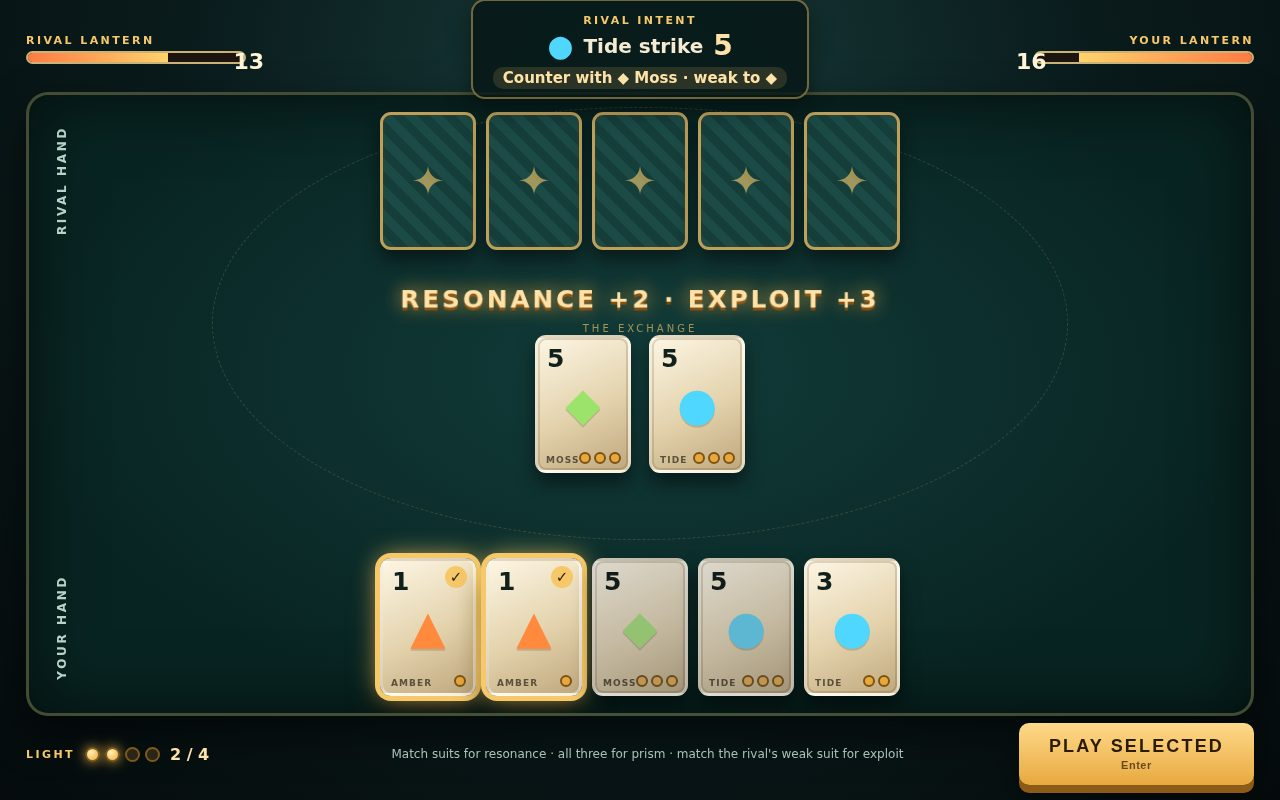
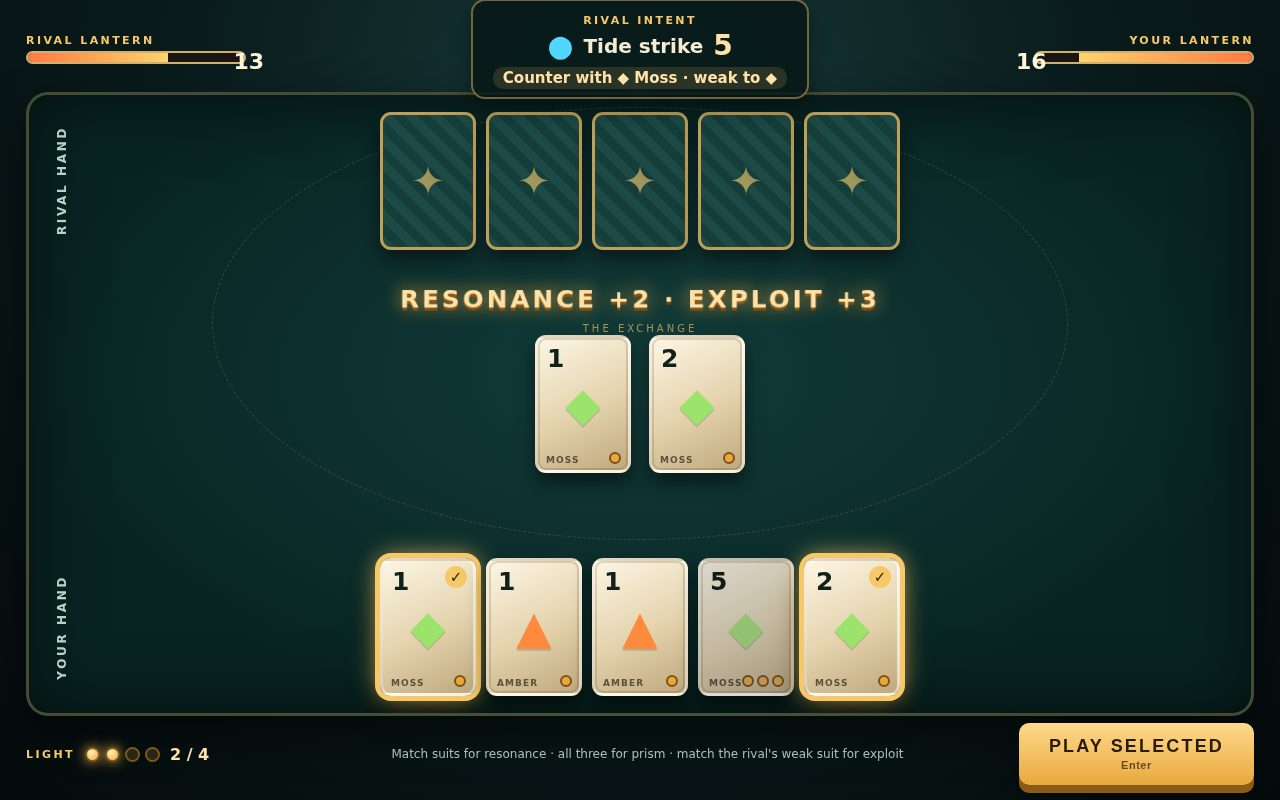
Show a coherent counter-play in the cover screenshot

diff --git a/game/src/main.js b/game/src/main.js
@@ -169,16 +169,17 @@ function shotMode(shot) {
     state.turn = 3;
     state.intent = { suit: 'tide', value: 5 };
     state.lastParry = false;
-    const cheap = state.hand
-      .map((card, index) => ({ card, index }))
-      .filter(({ card }) => card.cost <= 1)
-      .slice(0, 2);
-    for (const { index } of cheap) state.selected.add(index);
-    state.arena = [state.hand[2], state.hand[3]].filter(Boolean);
+    // Stage the counter-play: two cheap Moss cards answer the Tide intent,
+    // so the pictured hand, the exchange and the bonus banner tell one story.
+    const moss = state.drawPile.filter((card) => card.suit === 'moss' && card.cost <= 1).slice(0, 2);
+    const rest = state.hand.filter((card) => !moss.includes(card)).slice(0, 3);
+    state.hand = [moss[0], ...rest, moss[1]].filter(Boolean);
+    state.selected = new Set([0, state.hand.length - 1]);
+    state.arena = [moss[0], moss[1]].filter(Boolean);
     state.banner = 'RESONANCE +2 · EXPLOIT +3';
     renderStatus(state);
     renderArena(state.arena, state.banner);
-    updateHandClasses('player-hand', state.hand, state.selected, state.energy);
+    refreshHands();
     setPlayEnabled(state.selected.size > 0);
     return;
   }
